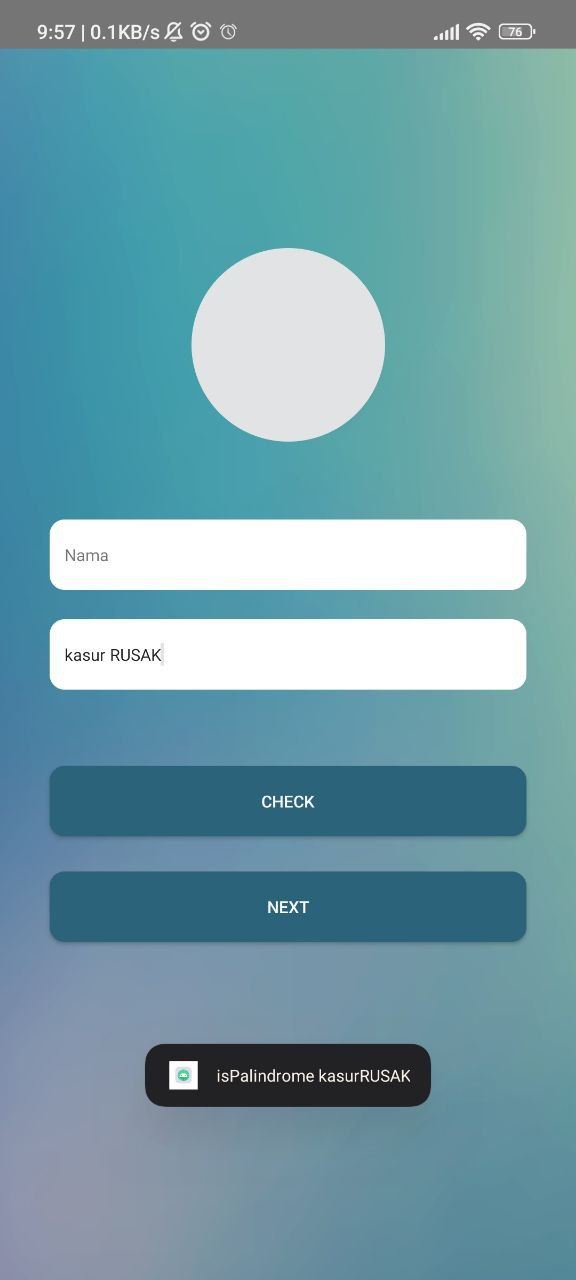
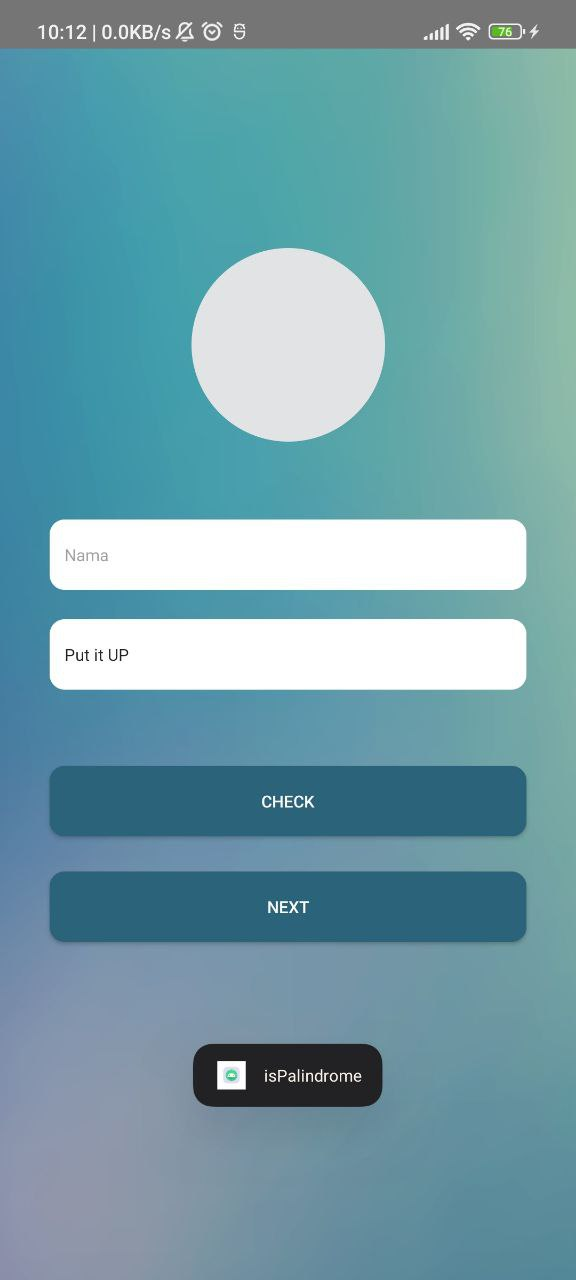
commit screenshot1

diff --git a/app/src/main/java/com/example/fellycsuitmedia/MainActivity.kt b/app/src/main/java/com/example/fellycsuitmedia/MainActivity.kt
@@ -32,10 +32,10 @@ class MainActivity : AppCompatActivity() {
                 val reverseStrs = sbs.reverse().toString()
                 //bandingin text terbalik dengan inputan
                 if (hilangspace.equals(reverseStrs, ignoreCase = true)){
-                    Toast.makeText(applicationContext, "isPalindrome", Toast.LENGTH_LONG).show()
+                    Toast.makeText(applicationContext, "isPalindrome", Toast.LENGTH_SHORT).show()
                     Log.e("testpalindrom","test:${hilangspace.equals(reverseStrs, ignoreCase = true)} ")
                 }else{
-                    Toast.makeText(applicationContext, "not Palindrome", Toast.LENGTH_LONG).show()
+                    Toast.makeText(applicationContext, "not Palindrome", Toast.LENGTH_SHORT).show()
                     Log.e("testnopalindrom","test:${hilangspace.equals(reverseStrs, ignoreCase = true)} ")
                 }
             }
